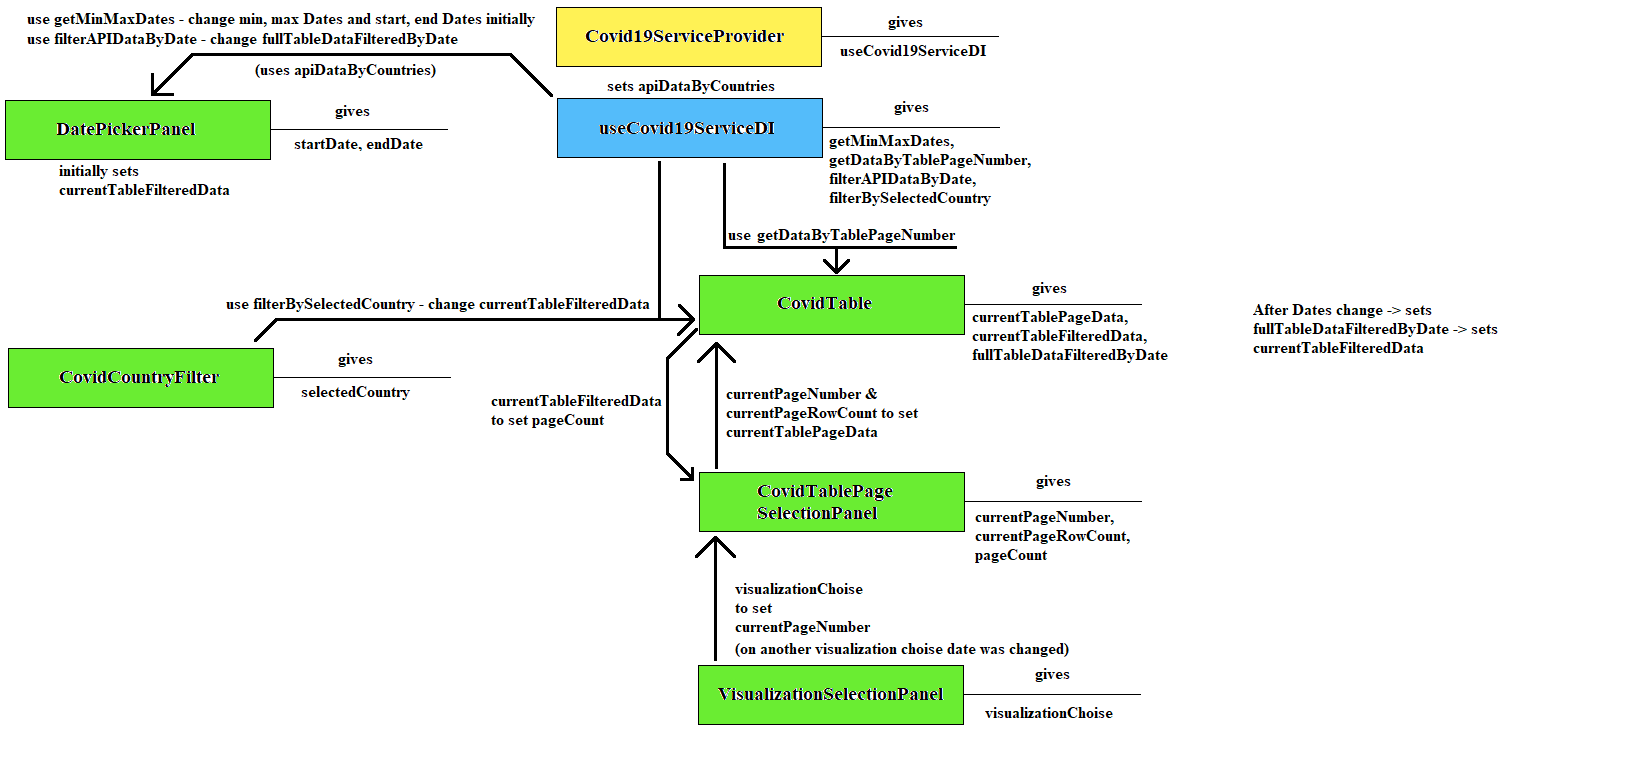
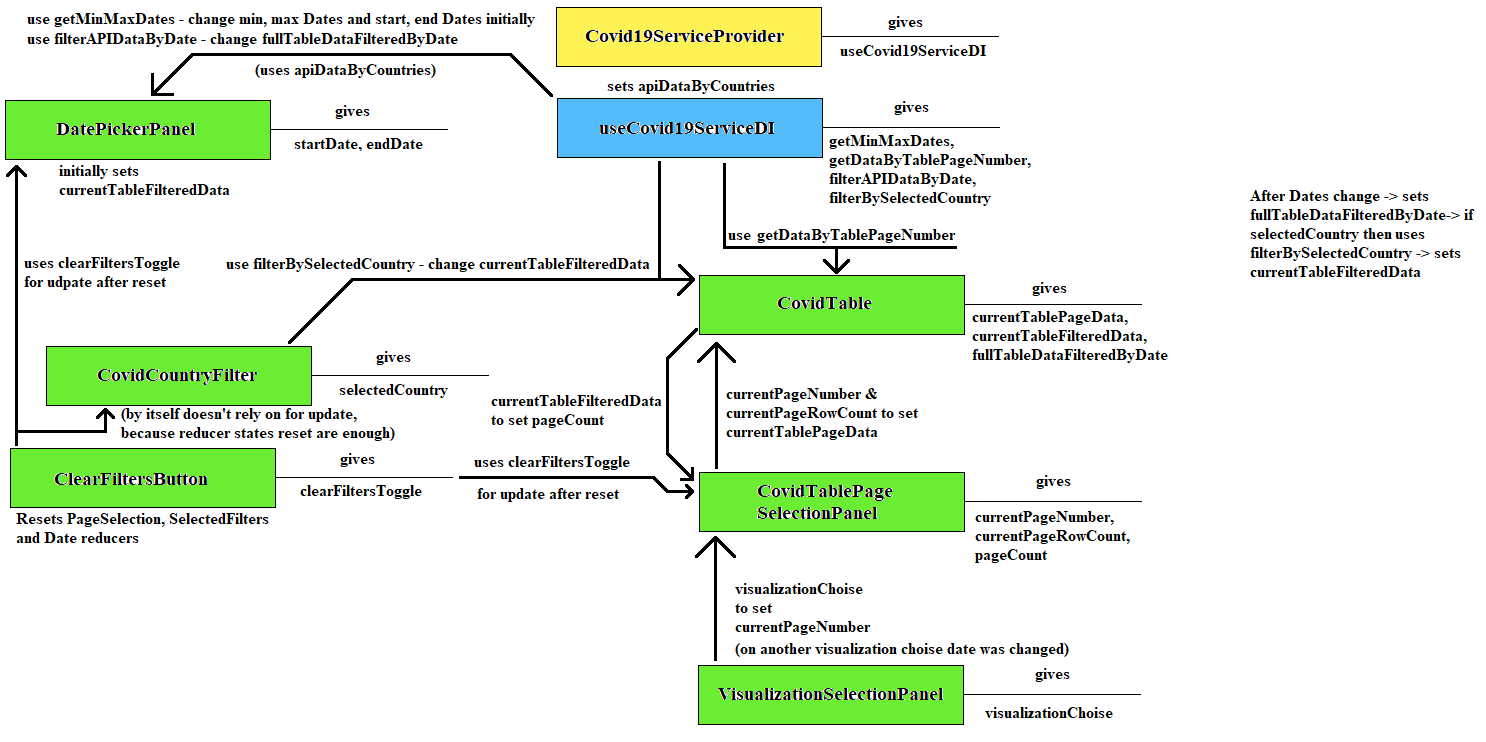
Add ClearFiltersButton & reducers reset

Changed region(s): [[0.0, 0.0, 0.8977, 0.9919], [0.8358, 0.248, 0.9906, 0.372], [0.0, 0.341, 0.1238, 0.403]]

diff --git a/covid-table-chart/src/redux/reducerStore.tsx b/covid-table-chart/src/redux/reducerStore.tsx
@@ -6,6 +6,7 @@ import { tableDataReducer } from "../components/CovidDashboard/CovidTableScreen/
 import { pageSelectionReducer } from "../components/CovidDashboard/CovidTableScreen/CovidTablePageSelectionPanel/pageSelectionReducer";
 import { apiDataByCountriesReducer } from "../hooks/apiDataByCountriesReducer";
 import { selectedFiltersReducer } from "../components/CovidDashboard/CovidTableScreen/CovidTableFilters/selectedFiltersReducer";
+import { clearFiltersReducer } from "../components/CovidDashboard/CovidTableScreen/CovidTableFilters/CovidCountryFilter/clearFiltersReducer";
 
 import { DateState } from "../components/DatePickerPanel/dateReducer";
 import { VisualizationChoiseState } from "../components/VisualizationSelectionPanel/dataVisualizationChoiseReducer";
@@ -13,6 +14,7 @@ import { TableDataState } from "../components/CovidDashboard/CovidTableScreen/Co
 import { PageSelectionState } from "../components/CovidDashboard/CovidTableScreen/CovidTablePageSelectionPanel/pageSelectionReducer";
 import { APIDataByCountriesState } from "../hooks/apiDataByCountriesReducer";
 import { SelectedFiltersState } from "../components/CovidDashboard/CovidTableScreen/CovidTableFilters/selectedFiltersReducer";
+import { ClearFiltersState } from "../components/CovidDashboard/CovidTableScreen/CovidTableFilters/CovidCountryFilter/clearFiltersReducer";
 
 export interface RootReducerState {
     dateReducer: DateState,
@@ -20,7 +22,8 @@ export interface RootReducerState {
     tableDataReducer: TableDataState,
     pageSelectionReducer: PageSelectionState,
     apiDataByCountriesReducer: APIDataByCountriesState,
-    selectedFiltersReducer: SelectedFiltersState
+    selectedFiltersReducer: SelectedFiltersState,
+    clearFiltersReducer: ClearFiltersState
 }
 
 const rootReducer = combineReducers({
@@ -29,7 +32,8 @@ const rootReducer = combineReducers({
     tableDataReducer,
     pageSelectionReducer,
     apiDataByCountriesReducer,
-    selectedFiltersReducer
+    selectedFiltersReducer,
+    clearFiltersReducer
 });
 
 export const reducerStore = createStore(rootReducer);

diff --git a/covid-table-chart/src/components/CovidDashboard/CovidTableScreen/CovidTablePageSelectionPanel/CovidTablePageSelectionPanel.tsx b/covid-table-chart/src/components/CovidDashboard/CovidTableScreen/CovidTablePageSelectionPanel/CovidTablePageSelectionPanel.tsx
@@ -14,6 +14,7 @@ import { PageSelectionState } from "./pageSelectionReducer";
 import { RootReducerState } from "../../../../redux/reducerStore";
 import { TableDataState } from "../CovidTable/tableDataReducer";
 import { VisualizationChoiseState } from "../../../VisualizationSelectionPanel/dataVisualizationChoiseReducer";
+import { ClearFiltersState } from "../CovidTableFilters/CovidCountryFilter/clearFiltersReducer";
 
 function CovidTablePageSelectionPanel() {
     const { 
@@ -27,6 +28,9 @@ function CovidTablePageSelectionPanel() {
         currentPageRowCount,
         pageCount
     } = useSelector<RootReducerState, PageSelectionState>((state) => state.pageSelectionReducer);
+    const { 
+        clearFiltersToggle
+    } = useSelector<RootReducerState, ClearFiltersState>((state) =>  state.clearFiltersReducer);
     const dispatch = useDispatch();
 
     useEffect(() => {
@@ -35,7 +39,7 @@ function CovidTablePageSelectionPanel() {
             dispatch(setPageCount(Math.ceil(currentTableFilteredData.length / currentPageRowCount)));
         }
 
-    }, [currentTableFilteredData, currentPageRowCount]);
+    }, [currentTableFilteredData, currentPageRowCount, clearFiltersToggle]);
 
     useEffect(() => {
         
@@ -43,7 +47,7 @@ function CovidTablePageSelectionPanel() {
             dispatch(setCurrentPageNumber(pageCount));
         }
 
-    }, [visualizationChoise, currentPageNumber, pageCount]);
+    }, [visualizationChoise, currentPageNumber, pageCount, clearFiltersToggle]);
 
     interface PageChangeEvent {
         selected: number

diff --git a/covid-table-chart/src/components/DatePickerPanel/DatePickerPanel.tsx b/covid-table-chart/src/components/DatePickerPanel/DatePickerPanel.tsx
@@ -17,6 +17,7 @@ import {
 import { setFullTableDataFilteredByDate } from "../CovidDashboard/CovidTableScreen/CovidTable/tableDataReducer";
 
 import { RootReducerState } from "../../redux/reducerStore";
+import { ClearFiltersState } from "../CovidDashboard/CovidTableScreen/CovidTableFilters/CovidCountryFilter/clearFiltersReducer";
 import { useCovid19ServiceDI } from "../../contexts/Covid19ServiceProvider";
 import { APIDataByCountriesState } from "../../hooks/apiDataByCountriesReducer";
 
@@ -30,6 +31,9 @@ const DatePickerPanel: React.FC = () => {
     const {
         apiDataByCountries
     } = useSelector<RootReducerState, APIDataByCountriesState>((state) => state.apiDataByCountriesReducer);
+    const {
+        clearFiltersToggle
+    } = useSelector<RootReducerState, ClearFiltersState>((state) => state.clearFiltersReducer);
     const { 
         getMinMaxDates,
         filterAPIDataByDate
@@ -49,7 +53,7 @@ const DatePickerPanel: React.FC = () => {
             }
         });
     
-    }, []);
+    }, [clearFiltersToggle]);
 
     useEffect(() => {
 

diff --git a/covid-table-chart/src/components/CovidDashboard/CovidTableScreen/CovidTableFilters/ClearFiltersButton/ClearFiltersButton.tsx b/covid-table-chart/src/components/CovidDashboard/CovidTableScreen/CovidTableFilters/ClearFiltersButton/ClearFiltersButton.tsx
@@ -1,0 +1,32 @@
+import { useDispatch } from "react-redux";
+
+import "./ClearFiltersButton.css";
+
+import { resetPageSelectionReducer } from "../../CovidTablePageSelectionPanel/pageSelectionReducer";
+import { resetSelectedFiltersReducer } from "../selectedFiltersReducer";
+import { resetDateReducer } from "../../../../DatePickerPanel/dateReducer";
+import { resetFilters } from "../CovidCountryFilter/clearFiltersReducer";
+
+const ClearFiltersButton: React.FC = () => {
+    const dispatch = useDispatch();
+
+    const handleClearFilters = () => {
+        dispatch(resetSelectedFiltersReducer());
+        dispatch(resetPageSelectionReducer());
+        dispatch(resetDateReducer());
+        dispatch(resetFilters());
+    }
+
+    return (
+        <button 
+            className="ClearFiltersButton"
+            type="button"
+            onClick={handleClearFilters}>
+            <span>
+                Clear Filters
+            </span>
+        </button>
+    );
+}
+
+export default ClearFiltersButton;

diff --git a/covid-table-chart/src/components/CovidDashboard/CovidTableScreen/CovidTableFilters/selectedFiltersReducer.tsx b/covid-table-chart/src/components/CovidDashboard/CovidTableScreen/CovidTableFilters/selectedFiltersReducer.tsx
@@ -6,12 +6,17 @@ interface SelectedFiltersAction {
 // Action creators
 export const setInputCountryValue = (inputCountryValue: string): SelectedFiltersAction => ({
     type: "SET_INPUT_COUNTRY_VALUE",
-    payload: inputCountryValue,
+    payload: inputCountryValue
 });
 
 export const setSelectedCountry = (selectedCountry: string): SelectedFiltersAction => ({
     type: "SET_SELECTED_COUNTRY",
-    payload: selectedCountry,
+    payload: selectedCountry
+});
+
+export const resetSelectedFiltersReducer = (): SelectedFiltersAction => ({
+    type: "RESET_SELECTED_FILTERS_REDUCER",
+    payload: ""
 });
 
 //State definition
@@ -35,6 +40,9 @@ export function selectedFiltersReducer(
         }
         case "SET_SELECTED_COUNTRY":{
             return { ...state, selectedCountry: action.payload };
+        }
+        case "RESET_SELECTED_FILTERS_REDUCER":{
+            return initialState;
         }
         default:{
             return state;

diff --git a/covid-table-chart/src/components/CovidDashboard/CovidTableScreen/CovidTable/tableDataReducer.tsx b/covid-table-chart/src/components/CovidDashboard/CovidTableScreen/CovidTable/tableDataReducer.tsx
@@ -29,6 +29,11 @@ export const setFullTableDataFilteredByDate = (fullTableDataFilteredByDate: Arra
     payload: fullTableDataFilteredByDate,
 });
 
+export const resetTableDataReducer = (): TableDataAction => ({
+    type: "RESET_TABLE_DATA_REDUCER",
+    payload: [],
+});
+
 //State definition
 export interface TableDataState {
     currentTablePageData: Array<TableCovidDataRepresentation>,
@@ -52,6 +57,9 @@ export function tableDataReducer(state: TableDataState = initialState, action: T
         }
         case "SET_FULL_TABLE_DATA_FILTERED_BY_DATE":{
             return { ...state, fullTableDataFilteredByDate: [...action.payload] };
+        }
+        case "RESET_TABLE_DATA_REDUCER":{
+            return initialState;
         }
         default:{
             return state;

diff --git a/covid-table-chart/src/components/CovidDashboard/CovidTableScreen/CovidTableFilters/CovidCountryFilter/clearFiltersReducer.tsx b/covid-table-chart/src/components/CovidDashboard/CovidTableScreen/CovidTableFilters/CovidCountryFilter/clearFiltersReducer.tsx
@@ -1,0 +1,31 @@
+interface ClearFiltersAction {
+    type: string;
+}
+
+// Action creators
+export const resetFilters = (): ClearFiltersAction => ({
+    type: "RESET_FILTERS",
+});
+
+//State definition
+export interface ClearFiltersState {
+    clearFiltersToggle: boolean;
+}
+
+const initialState: ClearFiltersState = {
+    clearFiltersToggle: false
+};
+
+export function clearFiltersReducer(
+    state: ClearFiltersState = initialState,
+    action: ClearFiltersAction
+) {
+    switch (action.type) {
+        case "RESET_FILTERS":{
+            return { ...state, clearFiltersToggle: !state.clearFiltersToggle };
+        }
+        default:{
+            return state;
+        }
+    }
+}

diff --git a/covid-table-chart/src/components/CovidDashboard/CovidTableScreen/CovidTablePageSelectionPanel/pageSelectionReducer.tsx b/covid-table-chart/src/components/CovidDashboard/CovidTableScreen/CovidTablePageSelectionPanel/pageSelectionReducer.tsx
@@ -19,6 +19,11 @@ export const setPageCount = (currentPageCount: number): PageSelectionAction => (
     payload: currentPageCount,
 });
 
+export const resetPageSelectionReducer = (): PageSelectionAction => ({
+    type: "RESET_PAGE_SELECTION_REDUCER",
+    payload: 1,
+});
+
 //State definition
 export interface PageSelectionState {
     currentPageNumber: number,
@@ -45,6 +50,9 @@ export function pageSelectionReducer(
         }
         case "SET_PAGE_COUNT":{
             return { ...state, pageCount: action.payload };
+        }
+        case "RESET_PAGE_SELECTION_REDUCER":{
+            return initialState;
         }
         default:{
             return state;

diff --git a/covid-table-chart/src/components/DatePickerPanel/dateReducer.tsx b/covid-table-chart/src/components/DatePickerPanel/dateReducer.tsx
@@ -24,6 +24,11 @@ export const setMaxDate = (maxDate: Date): DateAction => ({
     payload: maxDate,
 });
 
+export const resetDateReducer = (): DateAction => ({
+    type: "RESET_DATE_REDUCER",
+    payload: new Date(),
+});
+
 //State definition
 export interface DateState {
     startDate: Date | null,
@@ -52,6 +57,9 @@ export function dateReducer(state: DateState = initialState, action: DateAction)
         }
         case "SET_MAX_DATE":{
             return { ...state, maxDate: action.payload };
+        }
+        case "RESET_DATE_REDUCER":{
+            return initialState;
         }
         default:{
             return state;

diff --git a/covid-table-chart/src/components/CovidDashboard/CovidTableScreen/CovidTableFilters/ClearFiltersButton/ClearFiltersButton.css b/covid-table-chart/src/components/CovidDashboard/CovidTableScreen/CovidTableFilters/ClearFiltersButton/ClearFiltersButton.css
@@ -1,0 +1,20 @@
+.ClearFiltersButton{
+    display: flex;
+    flex-direction: column;
+    justify-content: center;
+    align-items: center;
+    width: 100px;
+    height: 35px;
+    background-color: var(--beige-color);
+    border: 1px solid var(--bright-beige-border-color);
+    cursor: pointer;
+}
+
+.ClearFiltersButton:hover{
+    background-color: var(--darker-beige);
+}
+
+.ClearFiltersButton > span{
+    font-weight: bold;
+    font-size: 1.05em;
+}

diff --git a/covid-table-chart/src/components/CovidDashboard/CovidTableScreen/CovidTableFilters/CovidTableFilters.tsx b/covid-table-chart/src/components/CovidDashboard/CovidTableScreen/CovidTableFilters/CovidTableFilters.tsx
@@ -1,5 +1,6 @@
 
 import CovidCountryFilter from "./CovidCountryFilter/CovidCountryFilter";
+import ClearFiltersButton from "./ClearFiltersButton/ClearFiltersButton";
 
 import "./CovidTableFilters.css";
 
@@ -7,6 +8,7 @@ const CovidTableFilters: React.FC = () => {
     return (
         <div className="CovidTableFilters">
             <CovidCountryFilter />
+            <ClearFiltersButton />
         </div>
     );
 }

diff --git a/covid-table-chart/src/components/CovidDashboard/CovidTableScreen/CovidTableFilters/CovidCountryFilter/CovidCountryFilter.css b/covid-table-chart/src/components/CovidDashboard/CovidTableScreen/CovidTableFilters/CovidCountryFilter/CovidCountryFilter.css
@@ -2,7 +2,7 @@
     display: flex;
     flex-direction: row;
     width: 165px;
-    height: 30px;
+    height: 35px;
 }
 
 .CovidCountryFilter > input,
